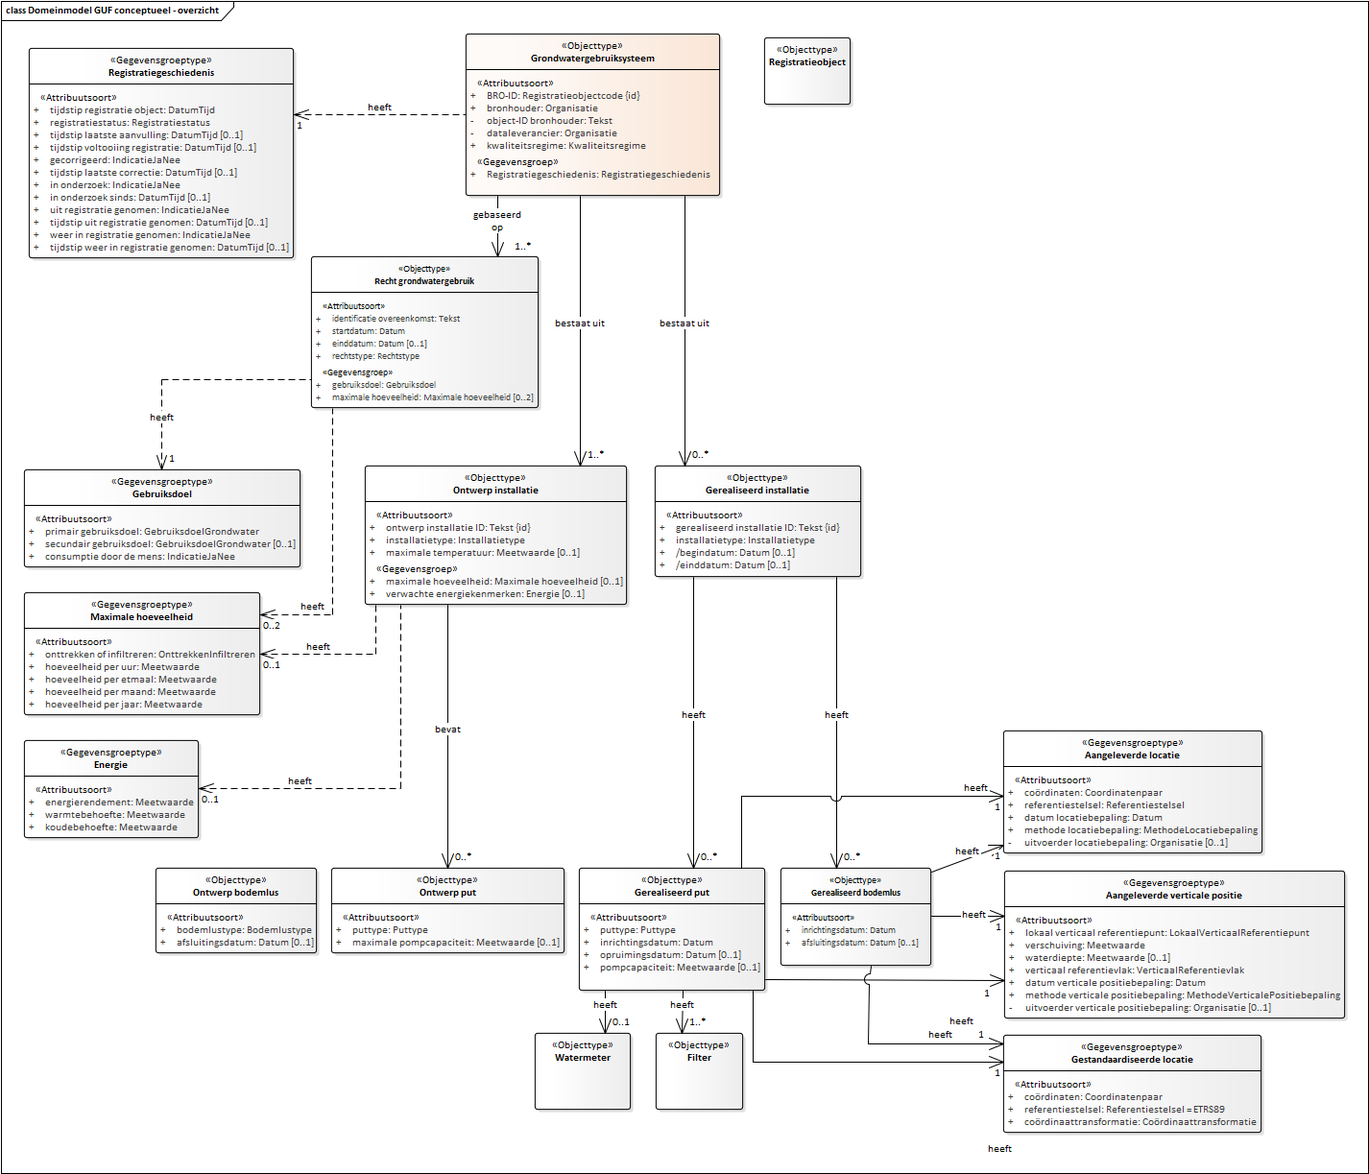
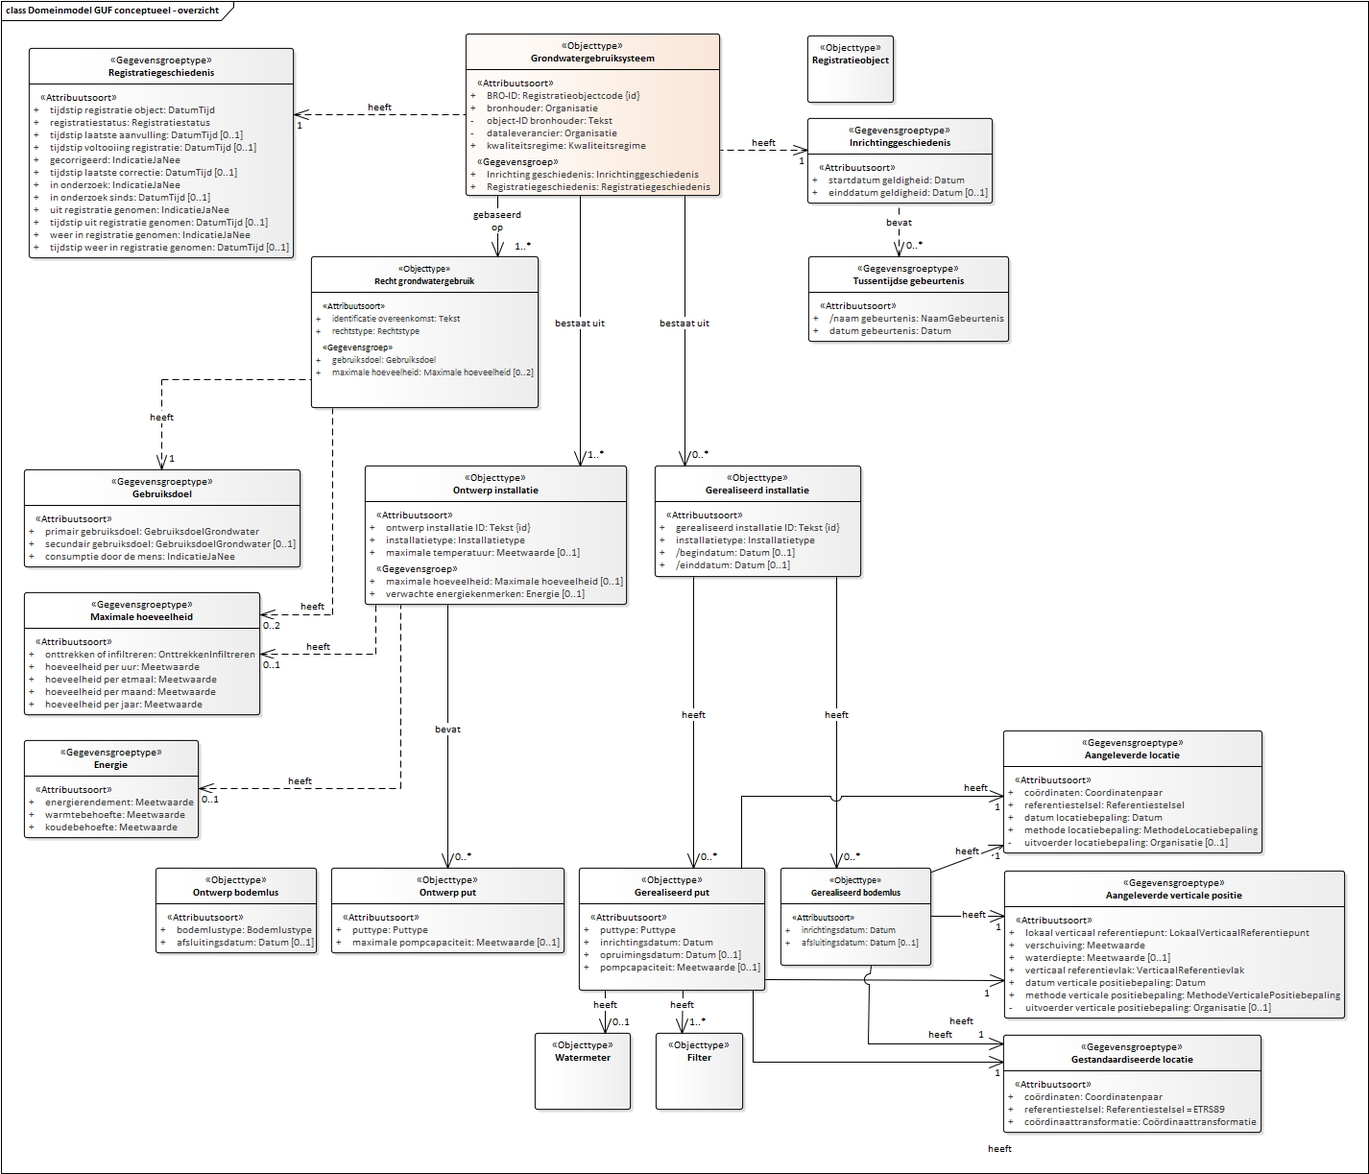
Conceptualmodel-GrondwatergebruikGUFconceptueel-0.1-1-20200401-20201021-105216

Changed region(s): [[0.5554, 0.0311, 0.7405, 0.3107], [0.216, 0.2796, 0.4011, 0.3418], [0.3703, 0.1243, 0.4937, 0.1864]]

diff --git a/data/GUF-cat.msword.html b/data/GUF-cat.msword.html
@@ -15,7 +15,7 @@
    <body>
       <p>Conceptual model/Grondwatergebruik (GUF) conceptueel/20200401</p>
       <p>Imvertor: 1.61.3</p>
-      <p>Model release: Conceptualmodel-GrondwatergebruikGUFconceptueel-0.1-1-20200401-20201019-170807</p>
+      <p>Model release: Conceptualmodel-GrondwatergebruikGUFconceptueel-0.1-1-20200401-20201021-105216</p>
       <hr>
       <section>
          <h1>Artikel 1 Definitie van registratieobject, entiteiten en attributen</h1>
@@ -62,7 +62,7 @@
          <section>
             <h2>Het domeinmodel</h2>
             <section id="">
-               <div class="imageinfo overview"><img src="Images/EAID_56F5F935_4109_4da0_A034_9EA7B40769E1.png" usemap="#imagemap-EAID_56F5F935_4109_4da0_A034_9EA7B40769E1" alt="Diagram "><map name="imagemap-EAID_56F5F935_4109_4da0_A034_9EA7B40769E1"><area shape="rect" alt="Ontwerp bodemlus" coords="162,904,330,993" href="#graph_EAID_B81BCB5C_B9C7_42d9_9F9E_3F76580BB410"><area shape="rect" alt="Ontwerp put" coords="345,904,588,993" href="#graph_EAID_FC483397_9430_4114_AE54_A7BE5A654EA9"><area shape="rect" alt="Energie" coords="25,771,207,873" href="#graph_EAID_F60FFCA9_A741_4d37_8DFE_FC87122B9777"><area shape="rect" alt="Maximale hoeveelheid" coords="25,617,271,745" href="#graph_EAID_D88F2231_8D52_4bac_AE7F_55102360A23B"><area shape="rect" alt="Gebruiksdoel" coords="25,489,313,591" href="#graph_EAID_DB9B3E32_EE42_4c47_A5CC_5AE7B58A2D13"><area shape="rect" alt="Gerealiseerd installatie" coords="682,485,897,601" href="#graph_EAID_45C4EF5D_AC27_47cc_926D_7F514776B53D"><area shape="rect" alt="Gestandaardiseerde locatie" coords="1045,1078,1314,1180" href="#graph_EAID_7F1D92D4_092C_4272_8CA2_89F93EA3F12E"><area shape="rect" alt="Aangeleverde verticale positie" coords="1046,907,1401,1061" href="#graph_EAID_6AA525F0_F1B6_4471_96BE_E1DEF2FCC704"><area shape="rect" alt="Watermeter" coords="557,1076,657,1156" href="#graph_EAID_4A487037_0E94_4ee8_81A8_2355D11DE89F"><area shape="rect" alt="Filter" coords="683,1076,774,1156" href="#graph_EAID_9D151445_53ED_4738_9920_071518BB50C1"><area shape="rect" alt="Recht grondwatergebruik" coords="324,267,561,425" href="#graph_EAID_1A591F8A_2ECC_4122_86C9_26BFA5C5420E"><area shape="rect" alt="Gerealiseerd put" coords="603,904,797,1032" href="#graph_EAID_F75BA1C9_02EB_48e6_B9A8_A018120E2279"><area shape="rect" alt="Gerealiseerd bodemlus" coords="813,904,970,1006" href="#graph_EAID_D45703EE_CCD5_434c_A478_BFA48D1A9DCB"><area shape="rect" alt="Ontwerp installatie" coords="380,485,653,630" href="#graph_EAID_DB2636FB_090C_4af0_AA40_4301B23795E2"><area shape="rect" alt="Registratiegeschiedenis" coords="30,50,306,269" href="#graph_EAID_C00FA7D7_7F78_413d_80CC_8F5D41996171"><area shape="rect" alt="Aangeleverde locatie" coords="1045,761,1315,889" href="#graph_EAID_FA55712E_2710_4bb3_A08E_6B62C39189F5"><area shape="rect" alt="Grondwatergebruiksysteem" coords="485,35,750,204" href="#graph_EAID_048DC684_486B_4605_B9CA_40413DB3C9DC"><area shape="rect" alt="Registratieobject" coords="796,39,886,109" href="#graph_EAID_2AC7632D_D0CE_4468_8510_855B506BE12A"></map><p><b>Domeinmodel GUF conceptueel</b></p>
+               <div class="imageinfo overview"><img src="Images/EAID_56F5F935_4109_4da0_A034_9EA7B40769E1.png" usemap="#imagemap-EAID_56F5F935_4109_4da0_A034_9EA7B40769E1" alt="Diagram "><map name="imagemap-EAID_56F5F935_4109_4da0_A034_9EA7B40769E1"><area shape="rect" alt="Tussentijdse gebeurtenis" coords="842,267,1051,356" href="#graph_EAID_98E530BE_5699_451a_8FC6_9C326ADD0528"><area shape="rect" alt="Inrichtinggeschiedenis" coords="841,123,1034,212" href="#graph_EAID_2BD94CFC_4D2B_498d_96DC_DF9DE395E7C4"><area shape="rect" alt="Ontwerp bodemlus" coords="162,904,330,993" href="#graph_EAID_B81BCB5C_B9C7_42d9_9F9E_3F76580BB410"><area shape="rect" alt="Ontwerp put" coords="345,904,588,993" href="#graph_EAID_FC483397_9430_4114_AE54_A7BE5A654EA9"><area shape="rect" alt="Energie" coords="25,771,207,873" href="#graph_EAID_F60FFCA9_A741_4d37_8DFE_FC87122B9777"><area shape="rect" alt="Maximale hoeveelheid" coords="25,617,271,745" href="#graph_EAID_D88F2231_8D52_4bac_AE7F_55102360A23B"><area shape="rect" alt="Gebruiksdoel" coords="25,489,313,591" href="#graph_EAID_DB9B3E32_EE42_4c47_A5CC_5AE7B58A2D13"><area shape="rect" alt="Gerealiseerd installatie" coords="682,485,897,601" href="#graph_EAID_45C4EF5D_AC27_47cc_926D_7F514776B53D"><area shape="rect" alt="Gestandaardiseerde locatie" coords="1045,1078,1314,1180" href="#graph_EAID_7F1D92D4_092C_4272_8CA2_89F93EA3F12E"><area shape="rect" alt="Aangeleverde verticale positie" coords="1046,907,1401,1061" href="#graph_EAID_6AA525F0_F1B6_4471_96BE_E1DEF2FCC704"><area shape="rect" alt="Watermeter" coords="557,1076,657,1156" href="#graph_EAID_4A487037_0E94_4ee8_81A8_2355D11DE89F"><area shape="rect" alt="Filter" coords="683,1076,774,1156" href="#graph_EAID_9D151445_53ED_4738_9920_071518BB50C1"><area shape="rect" alt="Recht grondwatergebruik" coords="324,267,561,425" href="#graph_EAID_1A591F8A_2ECC_4122_86C9_26BFA5C5420E"><area shape="rect" alt="Gerealiseerd put" coords="603,904,797,1032" href="#graph_EAID_F75BA1C9_02EB_48e6_B9A8_A018120E2279"><area shape="rect" alt="Gerealiseerd bodemlus" coords="813,904,970,1006" href="#graph_EAID_D45703EE_CCD5_434c_A478_BFA48D1A9DCB"><area shape="rect" alt="Ontwerp installatie" coords="380,485,653,630" href="#graph_EAID_DB2636FB_090C_4af0_AA40_4301B23795E2"><area shape="rect" alt="Registratiegeschiedenis" coords="30,50,306,269" href="#graph_EAID_C00FA7D7_7F78_413d_80CC_8F5D41996171"><area shape="rect" alt="Aangeleverde locatie" coords="1045,761,1315,889" href="#graph_EAID_FA55712E_2710_4bb3_A08E_6B62C39189F5"><area shape="rect" alt="Grondwatergebruiksysteem" coords="485,35,750,204" href="#graph_EAID_048DC684_486B_4605_B9CA_40413DB3C9DC"><area shape="rect" alt="Registratieobject" coords="841,37,931,107" href="#graph_EAID_2AC7632D_D0CE_4468_8510_855B506BE12A"></map><p><b>Domeinmodel GUF conceptueel</b></p>
                </div>
             </section>
          </section>
@@ -343,6 +343,229 @@
                               <td>
                                  
                                  <p>Het gegeven is door de dataleverancier bij de overdracht meegegeven.</p>
+                                 </td>
+                           </tr>
+                        </tbody>
+                     </table>
+                     </section>
+               </section><a class="anchor" id="graph_EAID_2BD94CFC_4D2B_498d_96DC_DF9DE395E7C4"></a><a class="anchor" id="global_class_Model_Inrichtinggeschiedenis"></a><section id="global_class_Model_Inrichtinggeschiedenis">
+                  <h3>   Inrichtinggeschiedenis</h3>
+                  <table style="width: 100%;">
+                     <colgroup style="width: 30%;"></colgroup>
+                     <colgroup style="width: 70%;"></colgroup>
+                     <tbody>
+                        <tr>
+                           <th>Type gegeven</th>
+                           <td>Entiteit</td>
+                        </tr>
+                        <tr>
+                           <th>Definitie</th>
+                           <td>
+                              
+                              <p>TODO</p>
+                              </td>
+                        </tr>
+                     </tbody>
+                  </table><a class="anchor" id="detail_attribute_Model_Inrichtinggeschiedenis_startdatumgeldigheid"></a><section id="detail_attribute_Model_Inrichtinggeschiedenis_startdatumgeldigheid">
+                     <h4>  startdatum geldigheid</h4>
+                     
+                     <table style="width: 100%;">
+                        <colgroup style="width: 30%;"></colgroup>
+                        <colgroup style="width: 70%;"></colgroup>
+                        <tbody>
+                           <tr>
+                              <th>Type gegeven</th>
+                              <td>Attribuut van Inrichtinggeschiedenis</td>
+                           </tr>
+                           <tr>
+                              <th>Definitie</th>
+                              <td>
+                                 
+                                 <p>De datum waarop volgens de beschikking of de melding het recht op het grondwatergebruik
+                                    start. Dit is de datum waarop de geldigheid van het grondwatergebruiksysteem ofwel
+                                    de inrichting start. </p>
+                                 </td>
+                           </tr>
+                           <tr>
+                              <th>Juridische status</th>
+                              <td>Authentiek</td>
+                           </tr>
+                           <tr>
+                              <th>Kardinaliteit</th>
+                              <td>1</td>
+                           </tr>
+                           <tr>
+                              <th>Domein</th>
+                              <td></td>
+                           </tr>
+                           <tr>
+                              <th>&nbsp;&nbsp;Naam</th>
+                              <td>Datum</td>
+                           </tr>
+                        </tbody>
+                     </table>
+                     </section><a class="anchor" id="detail_attribute_Model_Inrichtinggeschiedenis_einddatumgeldigheid"></a><section id="detail_attribute_Model_Inrichtinggeschiedenis_einddatumgeldigheid">
+                     <h4>  einddatum geldigheid</h4>
+                     
+                     <table style="width: 100%;">
+                        <colgroup style="width: 30%;"></colgroup>
+                        <colgroup style="width: 70%;"></colgroup>
+                        <tbody>
+                           <tr>
+                              <th>Type gegeven</th>
+                              <td>Attribuut van Inrichtinggeschiedenis</td>
+                           </tr>
+                           <tr>
+                              <th>Definitie</th>
+                              <td>
+                                 
+                                 <p>De laatste datum waarop volgens de beschikking of de melding het gebruiksrecht geldt.
+                                    Na deze datum is het recht op het grondwatergebruik zoals vermeld in de beschikking
+                                    of de melding vervallen. Dit is de datum waarop de geldigheid van het grondwatergebruiksysteem
+                                    ofwel de inrichting eindigt. </p>
+                                 </td>
+                           </tr>
+                           <tr>
+                              <th>Juridische status</th>
+                              <td>Authentiek</td>
+                           </tr>
+                           <tr>
+                              <th>Kardinaliteit</th>
+                              <td>0..1</td>
+                           </tr>
+                           <tr>
+                              <th>Domein</th>
+                              <td></td>
+                           </tr>
+                           <tr>
+                              <th>&nbsp;&nbsp;Naam</th>
+                              <td>Datum</td>
+                           </tr>
+                           <tr>
+                              <th>Regels</th>
+                              <td>
+                                 
+                                 <p>De <em>einddatum geldigheid</em> moet liggen voor de <em>startdatum geldigheid</em>.</p>
+                                 </td>
+                           </tr>
+                           <tr>
+                              <th>Toelichting</th>
+                              <td>
+                                 
+                                 <p>Bij een lopende vergunning of melding voor onbepaalde tijd ontbreekt dit attribuut.
+                                    Bij een lopende vergunning of melding voor bepaalde tijd wordt hier de einddatum geregistreerd.
+                                    Ook bij een vergunning of melding waarvan de looptijd is geëindigd, is hier een einddatum
+                                    geregistreerd. </p>
+                                 </td>
+                           </tr>
+                        </tbody>
+                     </table>
+                     </section>
+               </section><a class="anchor" id="graph_EAID_98E530BE_5699_451a_8FC6_9C326ADD0528"></a><a class="anchor" id="global_class_Model_Tussentijdsegebeurtenis"></a><section id="global_class_Model_Tussentijdsegebeurtenis">
+                  <h3>   Tussentijdse gebeurtenis</h3>
+                  <table style="width: 100%;">
+                     <colgroup style="width: 30%;"></colgroup>
+                     <colgroup style="width: 70%;"></colgroup>
+                     <tbody>
+                        <tr>
+                           <th>Type gegeven</th>
+                           <td>Entiteit</td>
+                        </tr>
+                        <tr>
+                           <th>Definitie</th>
+                           <td>
+                              
+                              <p>TODO</p>
+                              </td>
+                        </tr>
+                     </tbody>
+                  </table><a class="anchor" id="detail_attribute_Model_Tussentijdsegebeurtenis_naamgebeurtenis"></a><section id="detail_attribute_Model_Tussentijdsegebeurtenis_naamgebeurtenis">
+                     <h4>  naam gebeurtenis</h4>
+                     
+                     <table style="width: 100%;">
+                        <colgroup style="width: 30%;"></colgroup>
+                        <colgroup style="width: 70%;"></colgroup>
+                        <tbody>
+                           <tr>
+                              <th>Type gegeven</th>
+                              <td>Attribuut van Tussentijdse gebeurtenis</td>
+                           </tr>
+                           <tr>
+                              <th>Definitie</th>
+                              <td>
+                                 
+                                 <p>De benaming van de tussentijdse gebeurtenis.</p>
+                                 </td>
+                           </tr>
+                           <tr>
+                              <th>Juridische status</th>
+                              <td>Authentiek</td>
+                           </tr>
+                           <tr>
+                              <th>Kardinaliteit</th>
+                              <td>1</td>
+                           </tr>
+                           <tr>
+                              <th>Domein</th>
+                              <td></td>
+                           </tr>
+                           <tr>
+                              <th>&nbsp;&nbsp;Naam</th>
+                              <td><a class="link" href="#detail_class_Model_NaamGebeurtenis">NaamGebeurtenis</a></td>
+                           </tr>
+                           <tr>
+                              <th>&nbsp;&nbsp;Type</th>
+                              <td>Waardelijst uitbreidbaar</td>
+                           </tr>
+                           <tr>
+                              <th>Toelichting</th>
+                              <td>
+                                 
+                                 <p>Het gegeven staat niet in een brondocument. In de basisregistratie ondergrond wordt
+                                    het gegeven afgeleid op het moment dat het betreffende brondocument wordt aangeleverd.</p>
+                                 </td>
+                           </tr>
+                        </tbody>
+                     </table>
+                     </section><a class="anchor" id="detail_attribute_Model_Tussentijdsegebeurtenis_datumgebeurtenis"></a><section id="detail_attribute_Model_Tussentijdsegebeurtenis_datumgebeurtenis">
+                     <h4>  datum gebeurtenis</h4>
+                     
+                     <table style="width: 100%;">
+                        <colgroup style="width: 30%;"></colgroup>
+                        <colgroup style="width: 70%;"></colgroup>
+                        <tbody>
+                           <tr>
+                              <th>Type gegeven</th>
+                              <td>Attribuut van Tussentijdse gebeurtenis</td>
+                           </tr>
+                           <tr>
+                              <th>Definitie</th>
+                              <td>
+                                 
+                                 <p>De datum waarop de tussentijdse gebeurtenis heeft plaatsgevonden.</p>
+                                 </td>
+                           </tr>
+                           <tr>
+                              <th>Juridische status</th>
+                              <td>Authentiek</td>
+                           </tr>
+                           <tr>
+                              <th>Kardinaliteit</th>
+                              <td>1</td>
+                           </tr>
+                           <tr>
+                              <th>Domein</th>
+                              <td></td>
+                           </tr>
+                           <tr>
+                              <th>&nbsp;&nbsp;Naam</th>
+                              <td>Datum</td>
+                           </tr>
+                           <tr>
+                              <th>Regels</th>
+                              <td>
+                                 
+                                 <p>De datum mag niet voor <em>startdatum geldigheid</em> en niet na <em>einddatum geldigheid</em> van entiteit <em>Inrichtinggeschiedenis</em> liggen.</p>
                                  </td>
                            </tr>
                         </tbody>
@@ -992,98 +1215,6 @@
                                  
                                  <p>Veelal wordt het zaaksysteemnummer of het nummer uit het documentmanagementsysteem
                                     gebruikt om het besluit of de melding te identificeren.</p>
-                                 </td>
-                           </tr>
-                        </tbody>
-                     </table>
-                     </section><a class="anchor" id="detail_attribute_Model_Rechtgrondwatergebruik_startdatum"></a><section id="detail_attribute_Model_Rechtgrondwatergebruik_startdatum">
-                     <h4>  startdatum</h4>
-                     
-                     <table style="width: 100%;">
-                        <colgroup style="width: 30%;"></colgroup>
-                        <colgroup style="width: 70%;"></colgroup>
-                        <tbody>
-                           <tr>
-                              <th>Type gegeven</th>
-                              <td>Attribuut van Recht grondwatergebruik</td>
-                           </tr>
-                           <tr>
-                              <th>Definitie</th>
-                              <td>
-                                 
-                                 <p>De datum waarop volgens de beschikking of de melding het recht op het grondwatergebruik
-                                    start. </p>
-                                 </td>
-                           </tr>
-                           <tr>
-                              <th>Juridische status</th>
-                              <td>Authentiek</td>
-                           </tr>
-                           <tr>
-                              <th>Kardinaliteit</th>
-                              <td>1</td>
-                           </tr>
-                           <tr>
-                              <th>Domein</th>
-                              <td></td>
-                           </tr>
-                           <tr>
-                              <th>&nbsp;&nbsp;Naam</th>
-                              <td>Datum</td>
-                           </tr>
-                        </tbody>
-                     </table>
-                     </section><a class="anchor" id="detail_attribute_Model_Rechtgrondwatergebruik_einddatum"></a><section id="detail_attribute_Model_Rechtgrondwatergebruik_einddatum">
-                     <h4>  einddatum</h4>
-                     
-                     <table style="width: 100%;">
-                        <colgroup style="width: 30%;"></colgroup>
-                        <colgroup style="width: 70%;"></colgroup>
-                        <tbody>
-                           <tr>
-                              <th>Type gegeven</th>
-                              <td>Attribuut van Recht grondwatergebruik</td>
-                           </tr>
-                           <tr>
-                              <th>Definitie</th>
-                              <td>
-                                 
-                                 <p>De laatste datum waarop volgens de beschikking of de melding het gebruiksrecht geldt.
-                                    Na deze datum is het recht op het grondwatergebruik zoals vermeld in de beschikking
-                                    of de melding vervallen.</p>
-                                 </td>
-                           </tr>
-                           <tr>
-                              <th>Juridische status</th>
-                              <td>Authentiek</td>
-                           </tr>
-                           <tr>
-                              <th>Kardinaliteit</th>
-                              <td>0..1</td>
-                           </tr>
-                           <tr>
-                              <th>Domein</th>
-                              <td></td>
-                           </tr>
-                           <tr>
-                              <th>&nbsp;&nbsp;Naam</th>
-                              <td>Datum</td>
-                           </tr>
-                           <tr>
-                              <th>Regels</th>
-                              <td>
-                                 
-                                 <p>De <em>einddatum</em> moet liggen voor de <em>startdatum</em>.</p>
-                                 </td>
-                           </tr>
-                           <tr>
-                              <th>Toelichting</th>
-                              <td>
-                                 
-                                 <p>Bij een actieve vergunning voor onbepaalde tijd ontbreekt dit attribuut. Bij een actieve
-                                    vergunning of melding voor bepaalde tijd wordt hier de einddatum geregistreerd. Ook
-                                    bij een vergunning of melding waarvan de looptijd is geëindigd, is hier een einddatum
-                                    geregistreerd. </p>
                                  </td>
                            </tr>
                         </tbody>
@@ -3892,6 +4023,33 @@
                         
                         <p>Normaal Amsterdams Peil.</p>
                         </td>
+                  </tr>
+               </tbody>
+            </table>
+            </section>
+         <section id="detail_class_Model_NaamGebeurtenis">
+            <h3>  NaamGebeurtenis</h3>
+            
+            <table style="width: 100%;" class="list">
+               <colgroup></colgroup>
+               <tbody>
+                  <tr>
+                     <td>
+                        
+                        <p>De lijst van mogelijke gebeurtenissen die na het starten van de geldigheid van het
+                           grondwatergebruiksysteem maar voor het eindigen van de geldigheid ervan hebben plaatsgevonden.</p>
+                        </td>
+                  </tr>
+               </tbody>
+            </table>
+            
+            <table style="width: 100%;">
+               <tbody>
+                  <tr>
+                     <th>Waarde</th>
+                     <th>IMBRO</th>
+                     <th>IMBRO/A</th>
+                     <th>Omschrijving</th>
                   </tr>
                </tbody>
             </table>
